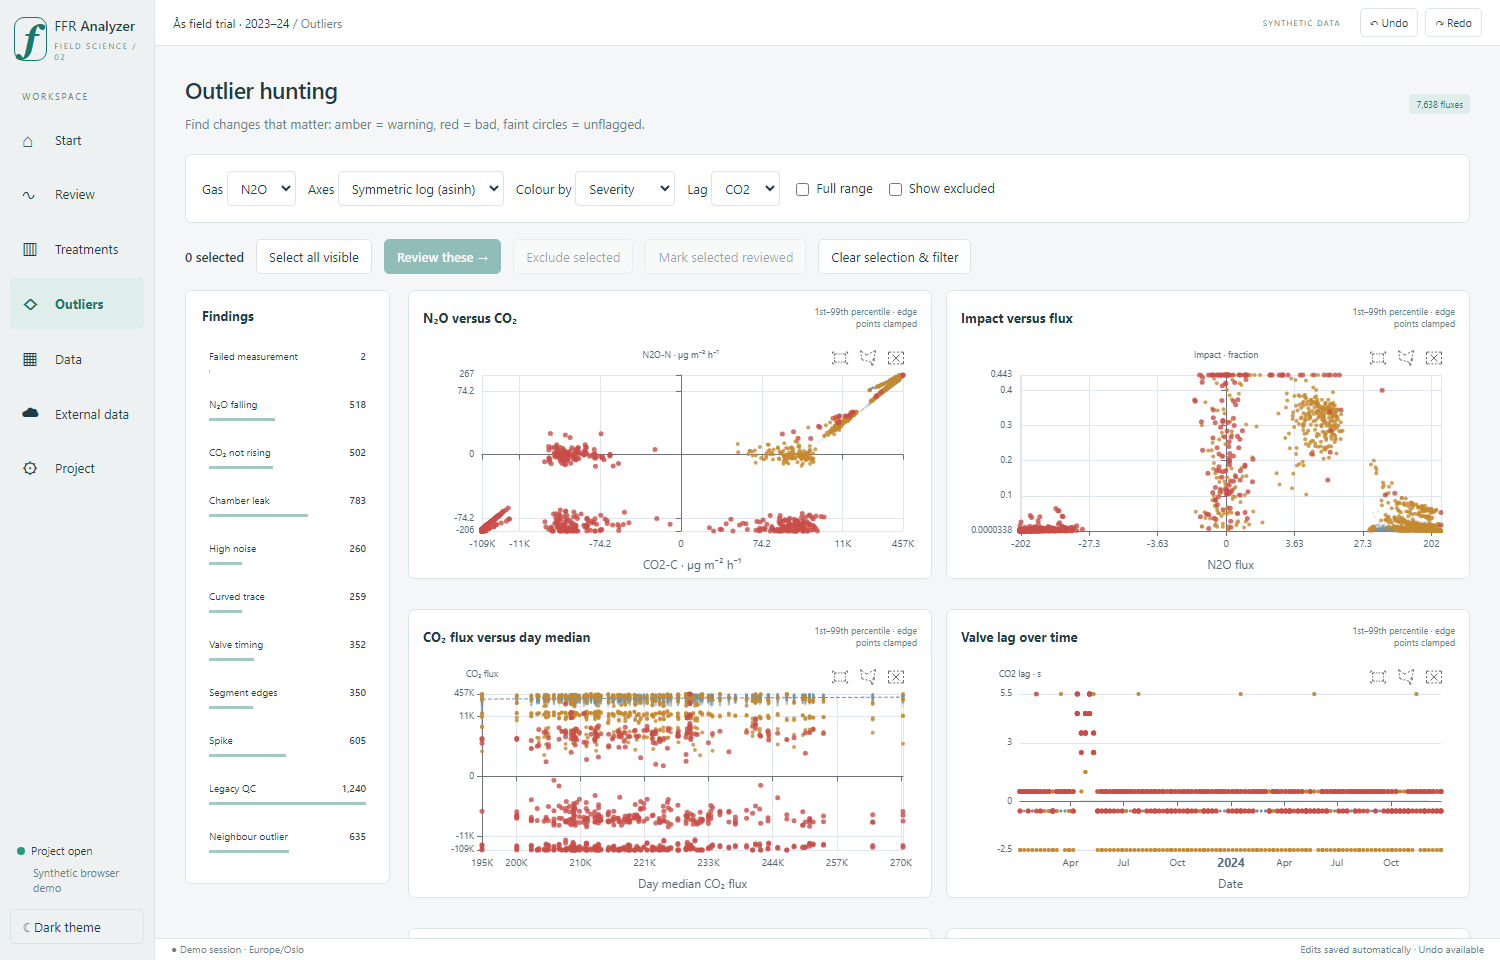
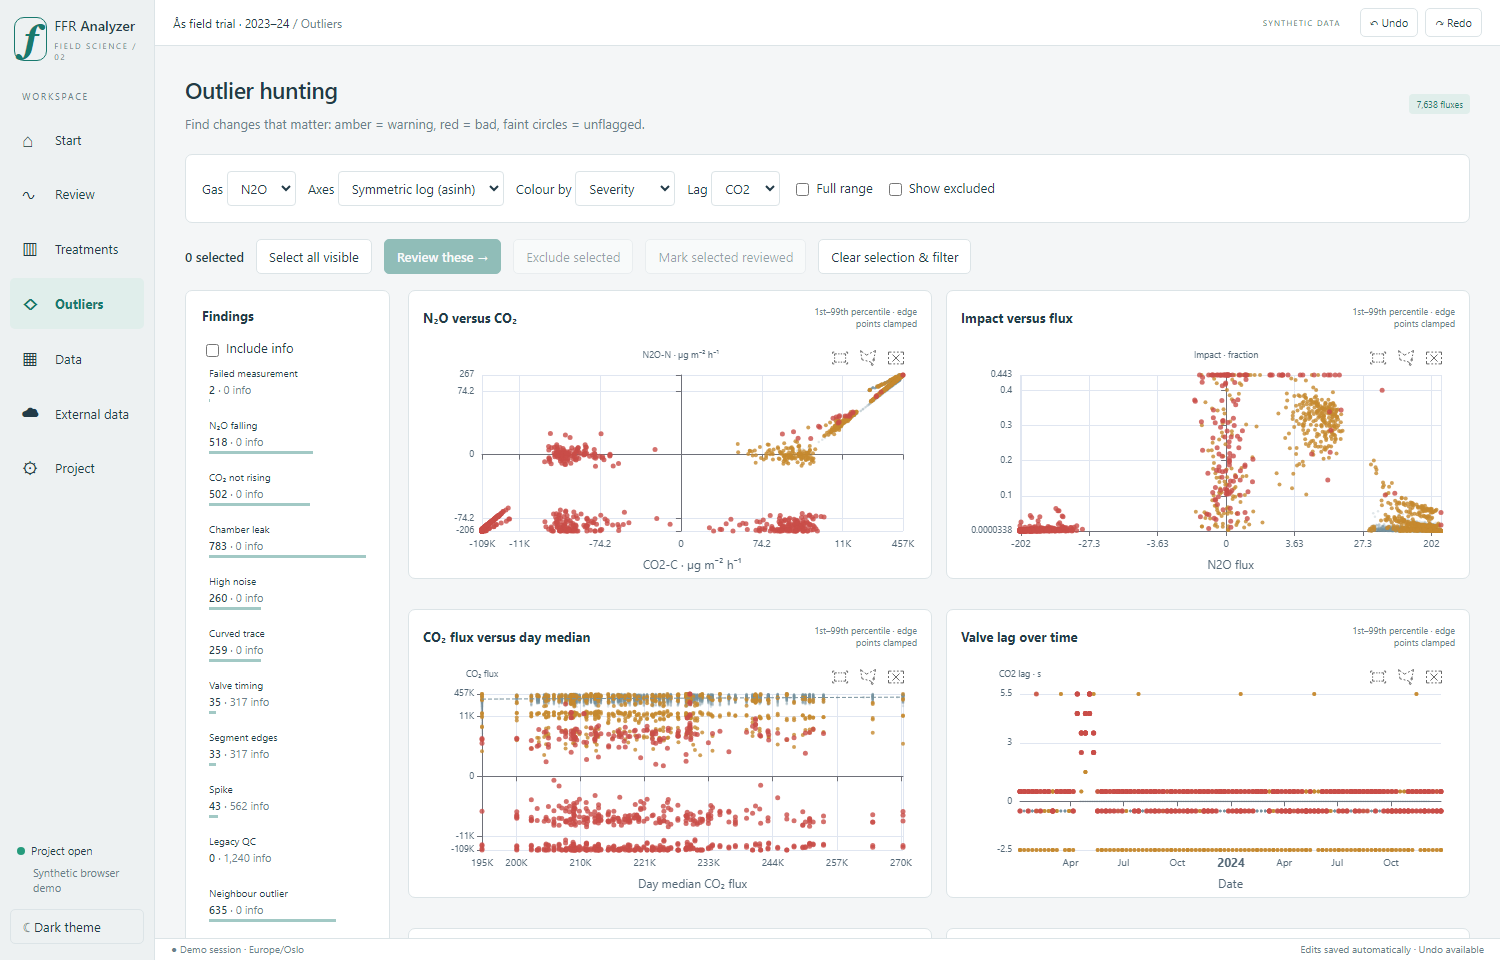
Verify polished desktop workflows and refresh synthetic screenshots

Changed region(s): [[0.1227, 0.3438, 0.2147, 0.9688], [0.2147, 0.8125, 0.2453, 0.8438], [0.2147, 0.5625, 0.2453, 0.5938]]

diff --git a/app/src/screens/outliers/index.tsx b/app/src/screens/outliers/index.tsx
@@ -268,8 +268,11 @@ export function Outliers() {
                 <i
                   style={{
                     width:
-                      (c.count /
-                        Math.max(1, ...counts.data!.map((d) => d.count))) *
+                      ((c.warnBad ?? 0) /
+                        Math.max(
+                          1,
+                          ...counts.data!.map((d) => d.warnBad ?? 0),
+                        )) *
                         100 +
                       "%",
                   }}

diff --git a/app/src/shared/charts/Chart.tsx b/app/src/shared/charts/Chart.tsx
@@ -77,6 +77,11 @@ export function Chart({
     ro.observe(ref.current);
     return () => {
       ro.disconnect();
+      // Supersede queued progressive paint frames before the canvas is disposed.
+      // zrender 5 otherwise lets a pending frame access the disposed layer list.
+      (
+        c.getZr().painter as { refresh: (paintAll?: boolean) => unknown }
+      ).refresh(true);
       c.dispose();
       instance.current = undefined;
     };

diff --git a/app/tests/smoke.test.ts b/app/tests/smoke.test.ts
@@ -56,7 +56,7 @@ test("triage, stable selection, lazy contact sheet, linked charts and all screen
   test.setTimeout(240000);
   mkdirSync("screenshots", { recursive: true });
   const errors: string[] = [];
-  page.on("pageerror", (e) => errors.push(e.message));
+  page.on("pageerror", (e) => errors.push(e.stack ?? e.message));
   page.on("console", (e) => {
     if (e.type() === "error") errors.push(e.text());
   });

diff --git a/app/src/style.css b/app/src/style.css
@@ -1959,3 +1959,14 @@ td {
   background: #fbe9e5;
   color: #963c30;
 }
+.diagnostic-bars button {
+  grid-template-columns: minmax(0, 1fr);
+  gap: 2px;
+  padding: 6px 7px;
+}
+.diagnostic-bars button > * {
+  grid-column: 1;
+}
+.diagnostic-bars button > span {
+  white-space: normal;
+}

diff --git a/app/src/api/findingLevels.test.ts b/app/src/api/findingLevels.test.ts
@@ -21,4 +21,3 @@ describe("per-code severity", () => {
     ).toEqual({ spike: "warn" });
   });
 });
-
